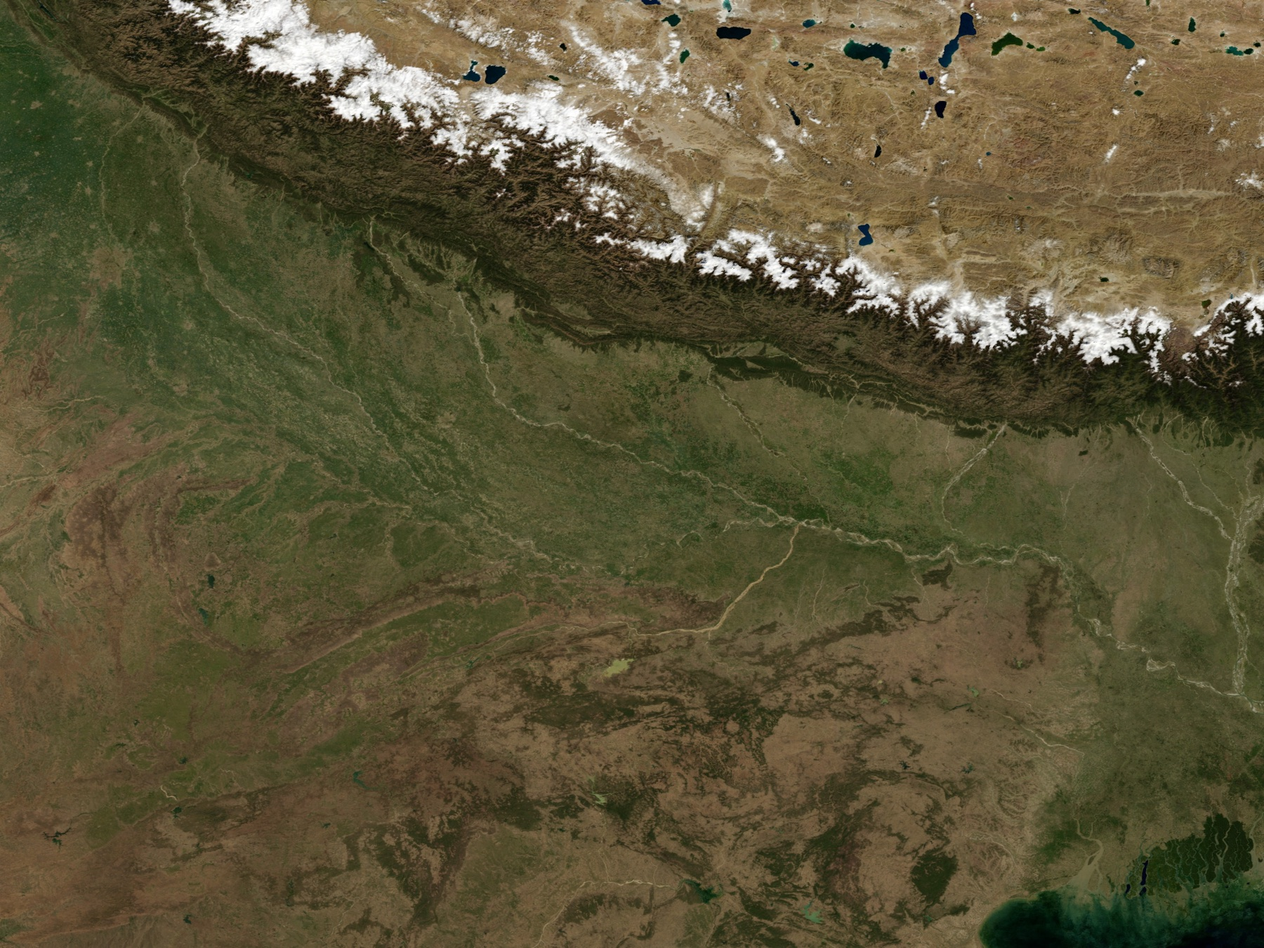
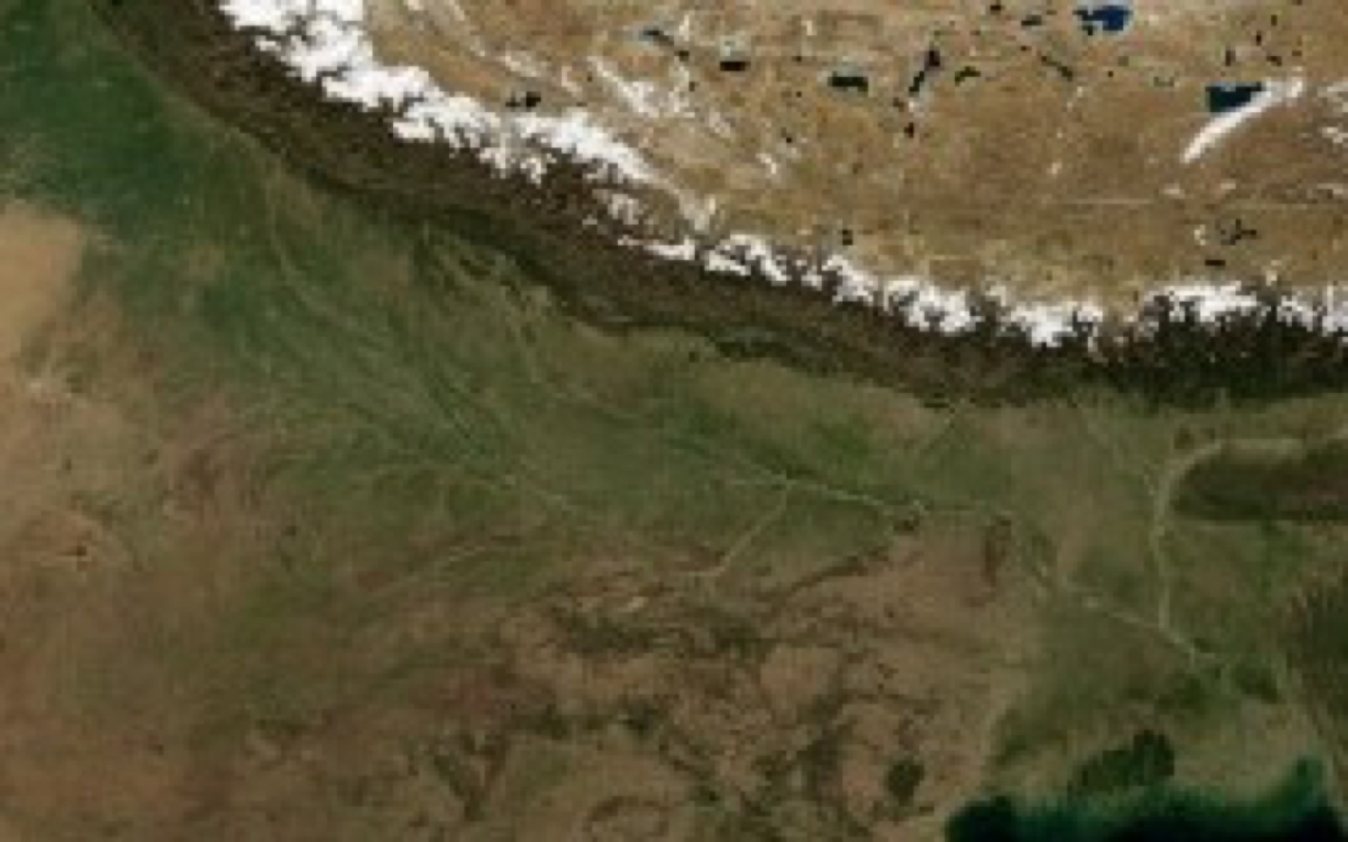
Keep Nepal border fully visible

diff --git a/app/globals.css b/app/globals.css
@@ -67,7 +67,7 @@ summary::-webkit-details-marker { display:none; }
 .hero-flow-indicator b { margin-inline:.35rem; color:var(--gold); font-size:.9rem; }
 .hero-map-stage { position:absolute; inset:0; z-index:1; opacity:0; transition:opacity 1.05s cubic-bezier(.22,1,.36,1); pointer-events:none; }
 .hero-map-stage svg { display:block; width:100%; height:100%; overflow:visible; }
-.hero-nepal-boundary { fill:rgb(216 155 60 / .065); stroke:rgb(230 184 102 / .82); stroke-width:1.35; stroke-dasharray:1; stroke-dashoffset:1; vector-effect:non-scaling-stroke; }
+.hero-nepal-boundary { fill:rgb(216 155 60 / .075); stroke:rgb(230 184 102 / .96); stroke-width:1.65; stroke-linecap:round; stroke-linejoin:round; vector-effect:non-scaling-stroke; }
 .hero-world-network { opacity:.96; }
 .hero-counterpart-routes path { fill:none; stroke:rgb(143 175 185 / .27); stroke-width:1; vector-effect:non-scaling-stroke; }
 .hero-counterpart-nodes circle:first-child { fill:var(--glacier); }
@@ -79,7 +79,6 @@ summary::-webkit-details-marker { display:none; }
 .hero-directional-routes path { fill:none; stroke:var(--gold); stroke-width:1.2; stroke-dasharray:2 18; vector-effect:non-scaling-stroke; animation:heroRouteTravel 4.8s linear infinite; }
 .hero-directional-out path { stroke:var(--rhododendron); animation-direction:reverse; animation-duration:5.6s; }
 @keyframes heroRouteTravel { to { stroke-dashoffset:-80; } }
-@keyframes heroBoundaryReveal { to { stroke-dashoffset:0; } }
 .hero-physical-stage { inset:0; }
 .hero-branch-links path { fill:none; stroke:rgb(216 155 60 / .34); stroke-width:1.1; vector-effect:non-scaling-stroke; }
 .hero-branch-marker .branch-ring { fill:rgb(216 155 60 / .08); stroke:var(--gold); stroke-width:1.5; vector-effect:non-scaling-stroke; }
@@ -104,7 +103,6 @@ summary::-webkit-details-marker { display:none; }
 .himalayan-hero.phase-2 .hero-phase-global,.himalayan-hero.phase-3 .hero-phase-physical,.himalayan-hero.phase-4 .hero-phase-flow { opacity:1; transform:none; }
 .himalayan-hero.phase-2 .hero-global-stage,.himalayan-hero.phase-3 .hero-physical-stage { opacity:1; }
 .himalayan-hero.phase-4 .hero-global-stage { opacity:.7; }.himalayan-hero.phase-4 .hero-physical-stage { opacity:.84; }
-.himalayan-hero.phase-3 .hero-nepal-boundary,.himalayan-hero.phase-4 .hero-nepal-boundary { animation:heroBoundaryReveal 1.45s cubic-bezier(.65,0,.35,1) forwards; }
 .himalayan-hero.phase-2 .hero-network-legend,.himalayan-hero.phase-3 .hero-network-legend,.himalayan-hero.phase-4 .hero-network-legend { opacity:1; }
 .himalayan-hero.phase-4 .hero-directional-routes { opacity:.78; }
 .is-reduced .hero-world-layer,.is-reduced .hero-global-stage,.is-reduced .hero-physical-stage,.is-reduced .hero-network-legend { display:none; }

diff --git a/app/components/home-motion.tsx b/app/components/home-motion.tsx
@@ -18,7 +18,7 @@ type GeoPoint = { x: number; y: number };
 type GeoBounds = { west: number; east: number; south: number; north: number };
 
 const WORLD = { width: 1600, height: 800, bounds: { west: -180, east: 180, south: -90, north: 90 } } as const;
-const REGION = { width: 1200, height: 900, bounds: { west: 76, east: 90, south: 21, north: 31.5 } } as const;
+const REGION = { width: 1440, height: 900, bounds: { west: 74.5333333333, east: 92.1333333333, south: 21, north: 32 } } as const;
 const HERO_NEPAL_BOUNDARY = createNepalBoundaryPath(REGION.width, REGION.height, REGION.bounds);
 const counterpartRegions = [
   { id: "asia", label: "Asia", latitude: 35, longitude: 105 },
@@ -61,7 +61,7 @@ function PhysicalNetworkGraphic() {
   const positions = Object.fromEntries(networkLocations.map((location) => [location.id, project(location.longitude, location.latitude, REGION.width, REGION.height, REGION.bounds)])) as Record<string, GeoPoint>;
   const kathmandu = positions.kathmandu;
   return <svg className="hero-physical-network" viewBox={`0 0 ${REGION.width} ${REGION.height}`} preserveAspectRatio="xMidYMid slice" role="img" aria-label="KCPL physical network: head office in Kathmandu and branches in Birgunj, Nepalgunj, Surkhet, Raxaul and Kolkata.">
-    <path className="hero-nepal-boundary" d={HERO_NEPAL_BOUNDARY} pathLength="1" aria-hidden="true"/>
+    <path className="hero-nepal-boundary" d={HERO_NEPAL_BOUNDARY} aria-hidden="true"/>
     <g className="hero-branch-links" aria-hidden="true">{networkLocations.filter((location) => location.id !== "kathmandu").map((location) => <path key={location.id} d={routeArc(kathmandu, positions[location.id], .08)}/>)}</g>
     <g>{networkLocations.map((location) => { const point = positions[location.id]; const label = location.type === "head-office" ? "HEAD OFFICE" : "KCPL BRANCH"; const offset = markerLabelOffsets[location.id]; return <g key={location.id} className={`hero-branch-marker ${location.type === "head-office" ? "is-head-office" : ""}`} transform={`translate(${point.x} ${point.y})`}><circle className="branch-ring" r={location.type === "head-office" ? 17 : 11}/><circle className="branch-core" r={location.type === "head-office" ? 6 : 4}/><text x={offset.dx} y={offset.dy} textAnchor={offset.anchor}>{location.name}</text><text className="branch-role" x={offset.dx} y={offset.dy + 17} textAnchor={offset.anchor}>{label}</text></g>; })}</g>
   </svg>;

diff --git a/app/components/operations-map.tsx b/app/components/operations-map.tsx
@@ -82,7 +82,7 @@ export function NepalOperationsMap() {
 
   return <div ref={mapRef} className="regional-satellite-shell">
     <div className="regional-satellite-map">
-      <SatelliteImage src="/images/nepal-satellite-nasa.jpg" alt="Satellite view of Nepal, the Himalayas and northern India" inView={inView} reducedMotion={reducedMotion}/>
+    <SatelliteImage src="/images/nepal-satellite-nasa-regional.jpg" alt="Satellite view of Nepal, the Himalayas and northern India" inView={inView} reducedMotion={reducedMotion}/>
       <div className="satellite-tone satellite-tone-regional" aria-hidden="true"/>
       <svg className="satellite-overlay" viewBox={`0 0 ${REGIONAL.width} ${REGIONAL.height}`} role="img" aria-labelledby="regional-map-title regional-map-description">
         <title id="regional-map-title">KCPL Nepal and India operations map</title>
@@ -90,10 +90,9 @@ export function NepalOperationsMap() {
         <motion.path
           className="satellite-country-boundary"
           d={NEPAL_BOUNDARY_PATH}
-          pathLength="1"
-          initial={reducedMotion ? false : { pathLength: 0, opacity: 0 }}
-          animate={{ pathLength: inView ? 1 : 0, opacity: inView ? 1 : 0 }}
-          transition={{ duration: reducedMotion ? 0 : 1.35, delay: reducedMotion ? 0 : .25, ease: [0.65, 0, 0.35, 1] }}
+          initial={reducedMotion ? false : { opacity: 0 }}
+          animate={{ opacity: inView ? 1 : 0 }}
+          transition={{ duration: reducedMotion ? 0 : .7, delay: reducedMotion ? 0 : .2, ease: [0.22, 1, 0.36, 1] }}
           aria-hidden="true"
         />
         <g className="satellite-routes" aria-hidden="true">
